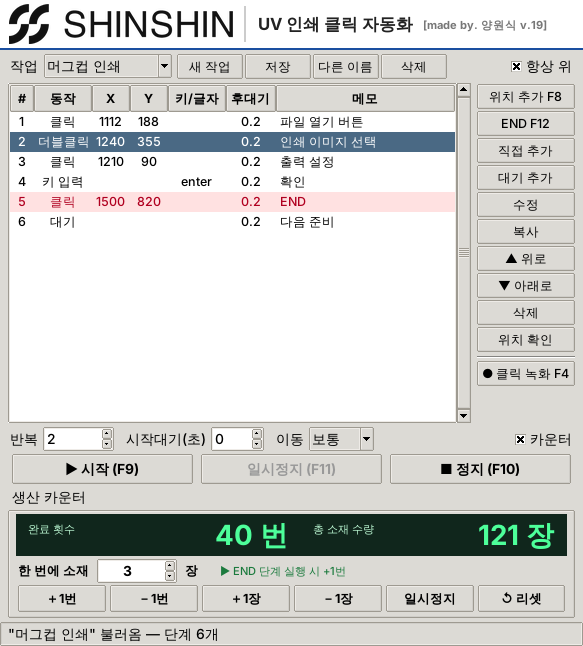
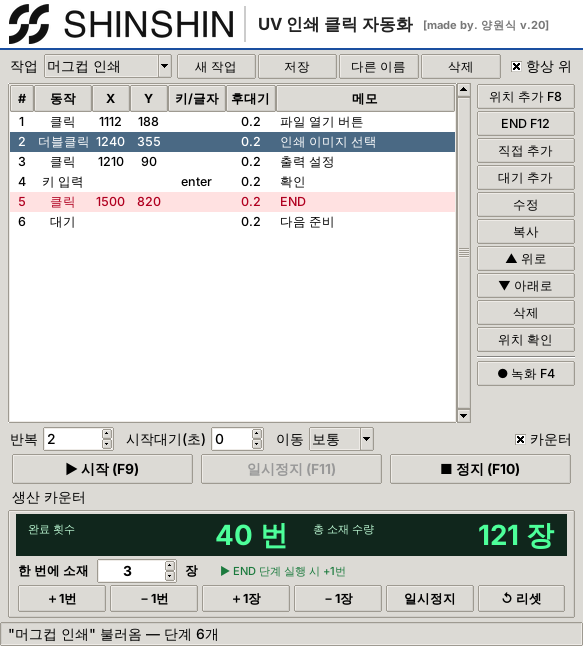
v.20: stretch top file buttons, rename record button to '녹화 F4'
Claude-Session: https://claude.ai/code/session_01HgvnrPN9frqDVCJ1qnZ6b3

diff --git a/uv-click-macro/macro_app.py b/uv-click-macro/macro_app.py
@@ -44,13 +44,14 @@ from pynput import keyboard, mouse
 pyautogui.FAILSAFE = True   # 마우스를 왼쪽 위 구석으로 → 비상정지
 pyautogui.PAUSE = 0.03
 
-VERSION = "v.19"
+VERSION = "v.20"
 CREDIT = f"made by. 양원식 {VERSION}"
 APP_TITLE = f"UV 인쇄 클릭 자동화 [{CREDIT}]"
 COMPANY = "신신기획"
 
 # 업그레이드 내역 (최신이 위) — 프로그램 맨 위 [made by. ...] 를 누르면 보입니다
 CHANGELOG = [
+    ("v.20", "11/21", "위쪽 새 작업·저장·다른 이름·삭제 버튼 넓게, 버튼 이름 '녹화 F4'"),
     ("v.19", "11/21", "녹화 단축키 F4 로 변경, 버전 표시와 업그레이드 내역 보기 추가"),
     ("v.18", "11/21", "오른쪽 버튼 한 줄 배치, 창 가로 폭 줄이기"),
     ("v.17", "11/21", "컴팩트 화면 적용, 녹화 단축키 F3"),
@@ -365,7 +366,7 @@ class MacroApp:
         # 오른쪽 체크를 먼저 배치해야 창이 좁아도 안 잘림
         self.topmost = tk.BooleanVar(value=self.settings.get("topmost", True))
         ttk.Checkbutton(top, text="항상 위", variable=self.topmost,
-                        command=self._apply_topmost).pack(side="right")
+                        command=self._apply_topmost).pack(side="right", padx=(6, 0))
         ttk.Label(top, text="작업").pack(side="left")
         self.macro_var = tk.StringVar()
         self.macro_combo = ttk.Combobox(top, textvariable=self.macro_var,
@@ -376,7 +377,7 @@ class MacroApp:
         for text, cmd in (("새 작업", self._new_macro), ("저장", self._save),
                           ("다른 이름", self._save_as), ("삭제", self._delete_macro)):
             ttk.Button(top, text=text, command=cmd, style="Side.TButton",
-                       width=7).pack(side="left", padx=1)
+                       width=7).pack(side="left", padx=1, fill="x", expand=True)
         self._apply_topmost()
 
         # 가운데: 단계 목록
@@ -421,7 +422,7 @@ class MacroApp:
             ttk.Button(side, text=text, command=cmd, style="Side.TButton", width=11).grid(
                 row=r, column=0, sticky="ew", pady=1)
         ttk.Separator(side).grid(row=len(side_btns), column=0, sticky="ew", pady=3)
-        self.rec_btn = ttk.Button(side, text="● 클릭 녹화 F4", command=self._toggle_record,
+        self.rec_btn = ttk.Button(side, text="● 녹화 F4", command=self._toggle_record,
                                   style="Side.TButton", width=11)
         self.rec_btn.grid(row=len(side_btns) + 1, column=0, sticky="ew")
 
@@ -1036,7 +1037,7 @@ class MacroApp:
             if self.mouse_listener:
                 self.mouse_listener.stop()
                 self.mouse_listener = None
-            self.rec_btn.config(text="● 클릭 녹화 F4")
+            self.rec_btn.config(text="● 녹화 F4")
             self.root.deiconify()
             self.root.lift()
             self.status.set("녹화 끝. 대기시간은 실제 간격대로 들어갔으니 필요하면 수정하세요.")
